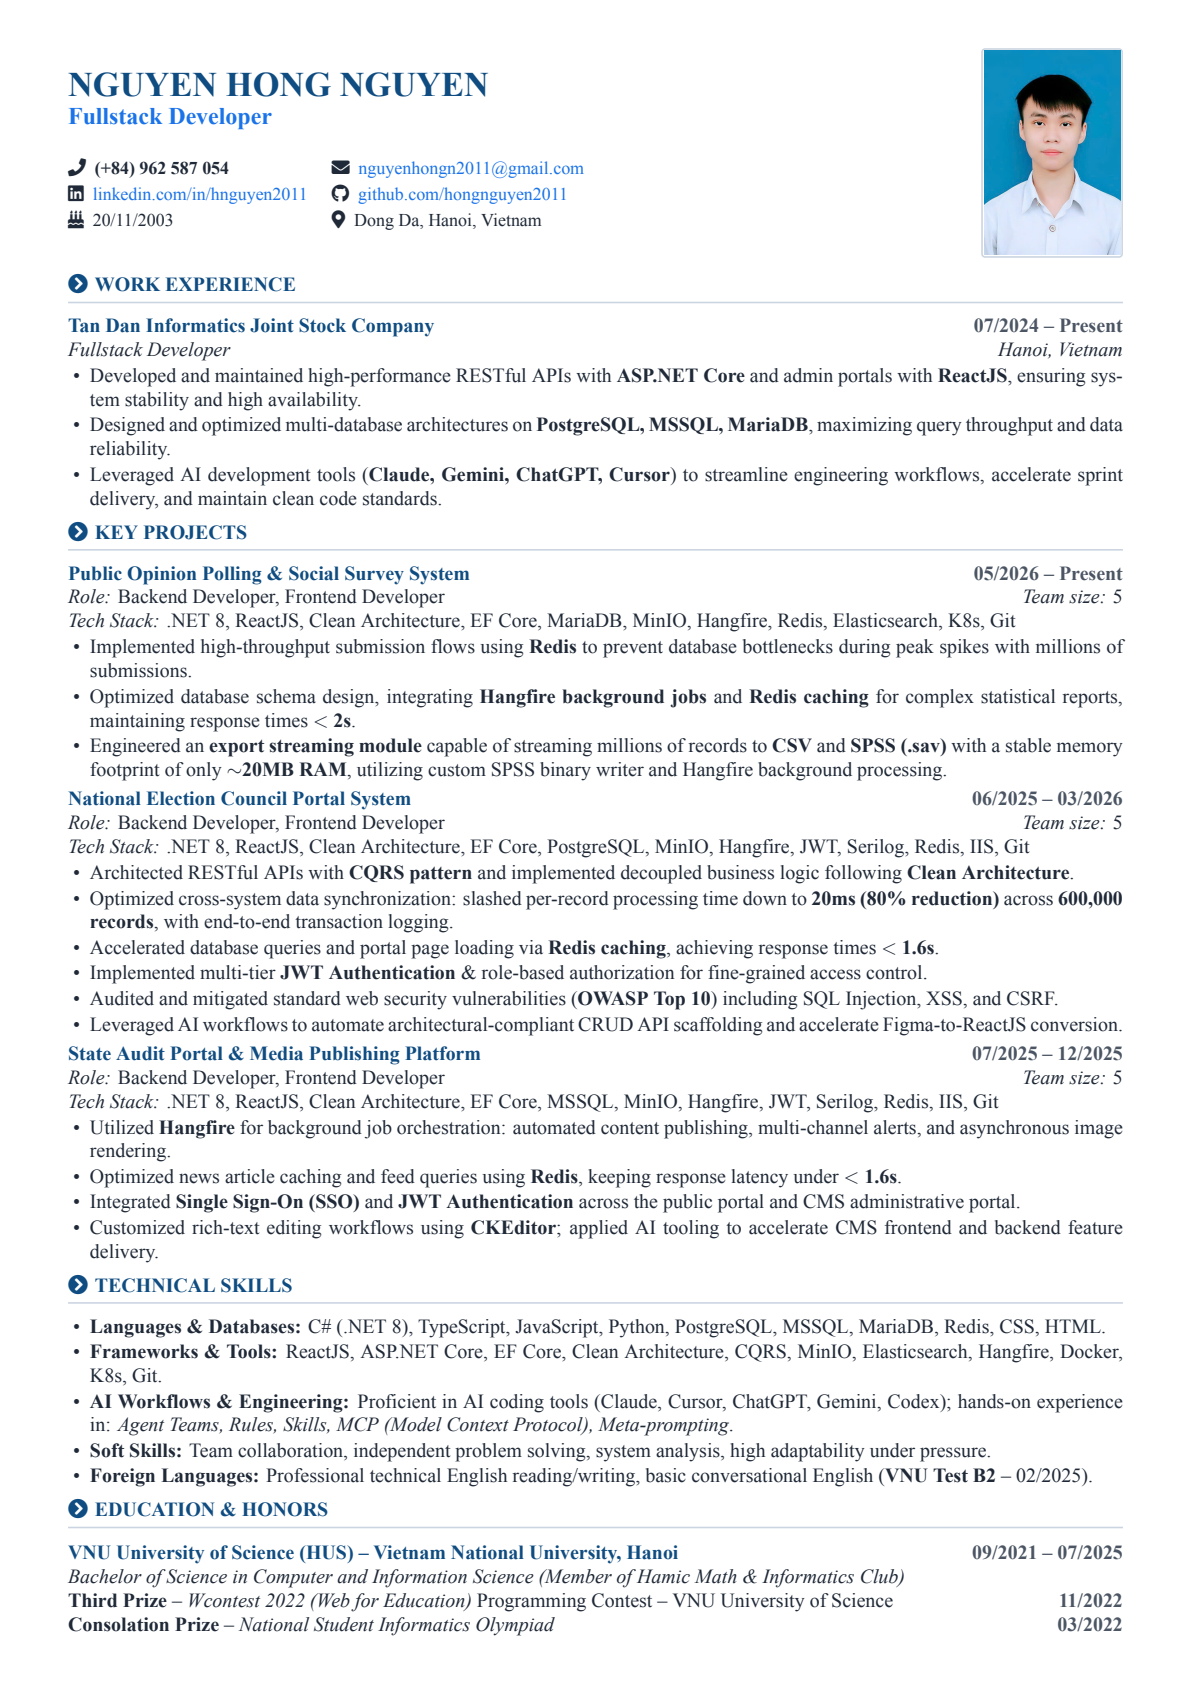
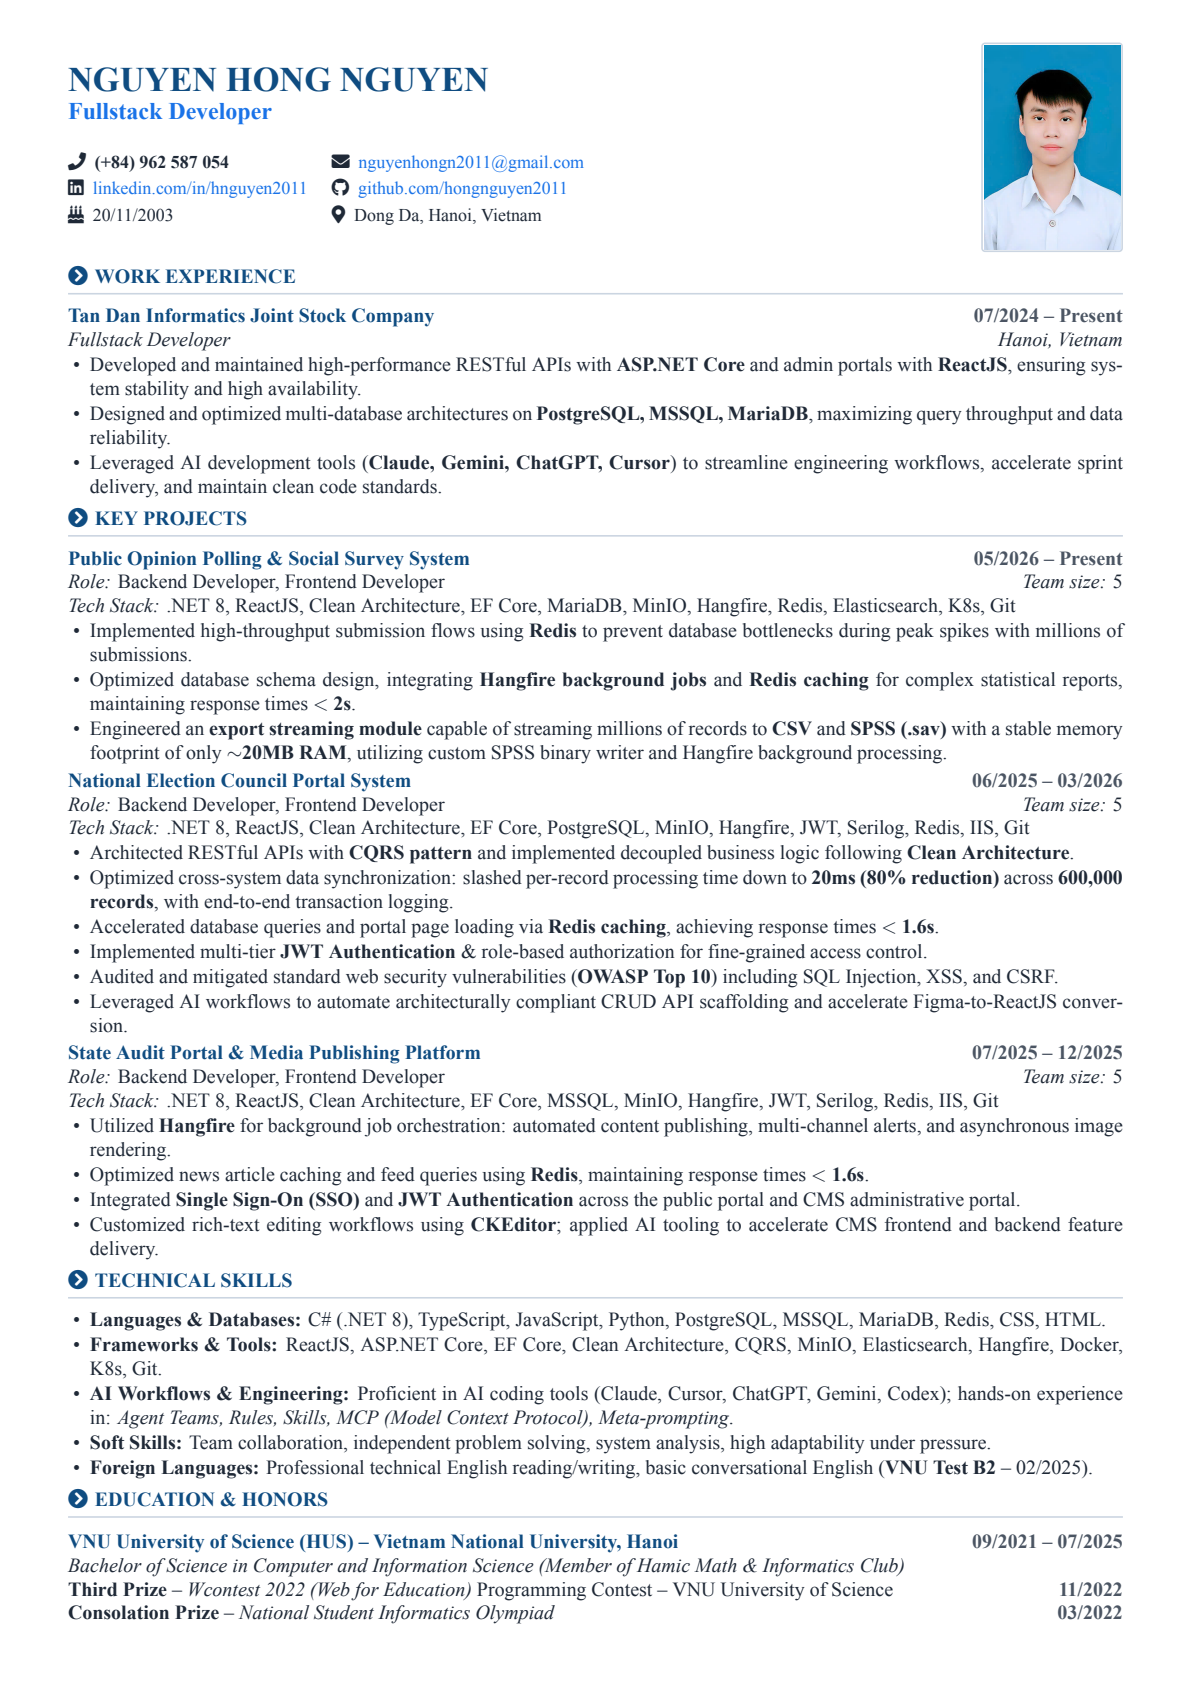
style: polish grammar, phrasing, and guarantee single-page layout for both versions

Changed region(s): [[0.0311, 0.0309, 0.9631, 0.9881], [0.8388, 0.0, 0.932, 0.1544], [0.2796, 0.0926, 0.4971, 0.1544]]

diff --git a/resume_en.tex b/resume_en.tex
@@ -16,7 +16,7 @@
   ]
 \fi
 
-\usepackage[left=1.2cm,right=1.2cm,top=0.85cm,bottom=0.85cm]{geometry}
+\usepackage[left=1.2cm,right=1.2cm,top=0.75cm,bottom=0.75cm]{geometry}
 \usepackage{graphicx}
 \usepackage{xcolor}
 \usepackage{hyperref}
@@ -44,7 +44,7 @@
 
 \pagestyle{empty}
 \setlength{\parindent}{0pt}
-\setlist[itemize]{leftmargin=1.1em, itemsep=0.8pt, topsep=1pt, parsep=0pt}
+\setlist[itemize]{leftmargin=1.1em, itemsep=0.5pt, topsep=0.5pt, parsep=0pt}
 
 % --- Section Styling ---
 \newcommand{\sectionicon}{\textcolor{primary}{\faChevronCircleRight}\hspace{0.35em}}
@@ -55,7 +55,7 @@
   {0em}
   {\sectionicon\MakeUppercase}[\vspace{-0.6em}\color{linecolor}\rule{\textwidth}{0.8pt}]
 
-\titlespacing*{\section}{0pt}{5pt}{2.5pt}
+\titlespacing*{\section}{0pt}{4pt}{2pt}
 
 \begin{document}
 \color{textdark}
@@ -82,7 +82,7 @@
     \end{tikzpicture}
 \end{minipage}
 
-\vspace{0.08cm}
+\vspace{0.06cm}
 
 % ==================== WORK EXPERIENCE ====================
 \section{Work Experience}
@@ -108,7 +108,7 @@
     \item Engineered an \textbf{export streaming module} capable of streaming millions of records to \textbf{CSV} and \textbf{SPSS (.sav)} with a stable memory footprint of only \textbf{$\sim$20MB RAM}, utilizing custom SPSS binary writer and Hangfire background processing.
 \end{itemize}
 
-\vspace{0.06cm}
+\vspace{0.05cm}
 
 % --- Project 2 ---
 \textbf{\textcolor{primary}{National Election Council Portal System}} \hfill \textcolor{textgray}{\textbf{06/2025 -- 03/2026}}\\
@@ -120,10 +120,10 @@
     \item Accelerated database queries and portal page loading via \textbf{Redis caching}, achieving response times \textbf{$<$ 1.6s}.
     \item Implemented multi-tier \textbf{JWT Authentication} \& role-based authorization for fine-grained access control.
     \item Audited and mitigated standard web security vulnerabilities (\textbf{OWASP Top 10}) including SQL Injection, XSS, and CSRF.
-    \item Leveraged AI workflows to automate architectural-compliant CRUD API scaffolding and accelerate Figma-to-ReactJS conversion.
+    \item Leveraged AI workflows to automate architecturally compliant CRUD API scaffolding and accelerate Figma-to-ReactJS conversion.
 \end{itemize}
 
-\vspace{0.06cm}
+\vspace{0.05cm}
 
 % --- Project 3 ---
 \textbf{\textcolor{primary}{State Audit Portal \& Media Publishing Platform}} \hfill \textcolor{textgray}{\textbf{07/2025 -- 12/2025}}\\
@@ -131,7 +131,7 @@
 \textit{Tech Stack:} .NET 8, ReactJS, Clean Architecture, EF Core, MSSQL, MinIO, Hangfire, JWT, Serilog, Redis, IIS, Git
 \begin{itemize}
     \item Utilized \textbf{Hangfire} for background job orchestration: automated content publishing, multi-channel alerts, and asynchronous image rendering.
-    \item Optimized news article caching and feed queries using \textbf{Redis}, keeping response latency under \textbf{$<$ 1.6s}.
+    \item Optimized news article caching and feed queries using \textbf{Redis}, maintaining response times \textbf{$<$ 1.6s}.
     \item Integrated \textbf{Single Sign-On (SSO)} and \textbf{JWT Authentication} across the public portal and CMS administrative portal.
     \item Customized rich-text editing workflows using \textbf{CKEditor}; applied AI tooling to accelerate CMS frontend and backend feature delivery.
 \end{itemize}

diff --git a/resume.tex b/resume.tex
@@ -120,7 +120,7 @@
 \textit{Công nghệ:} .NET 8, ReactJS, Clean Architecture, EF Core, PostgreSQL, MinIO, Hangfire, JWT, Serilog, Redis, IIS, Git
 \begin{itemize}
     \item Xây dựng API RESTful theo \textbf{CQRS pattern}, triển khai business logic theo kiến trúc \textbf{Clean Architecture}.
-    \item Tối ưu thời gian đồng bộ dữ liệu từ hệ thống khác: giảm thời gian xử lý mỗi record xuống \textbf{20ms (giảm 80\%)} trên tập \textbf{600.000 records}, tích hợp logging chi tiết kiểm soát từng giao dịch.
+    \item Tối ưu thời gian đồng bộ dữ liệu từ hệ thống khác: giảm thời gian xử lý mỗi bản ghi xuống còn \textbf{20ms (giảm 80\%)} trên tập \textbf{600.000 bản ghi}, tích hợp logging chi tiết kiểm soát từng giao dịch.
     \item Tối ưu hóa truy vấn CSDL, tăng tốc tải trang portal bằng \textbf{Redis caching} với thời gian tải \textbf{$<$ 1.6s}.
     \item Thiết kế \& triển khai \textbf{JWT Authentication}, quản lý phiên đăng nhập và phân quyền đa tầng theo nghiệp vụ.
     \item Rà soát và khắc phục các lỗ hổng bảo mật tiêu chuẩn (\textbf{OWASP Top 10}) như SQL Injection, XSS và CSRF.
